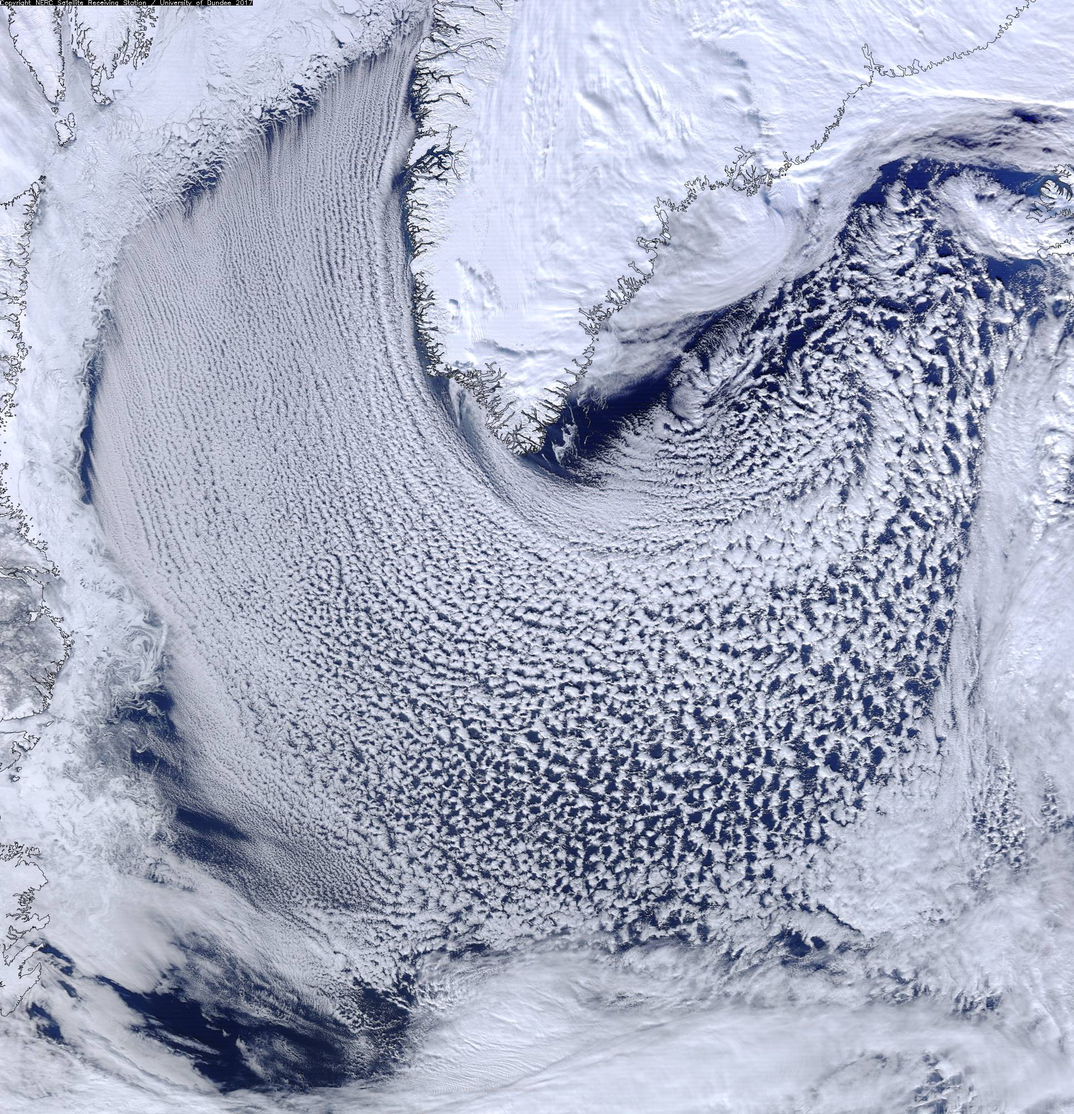
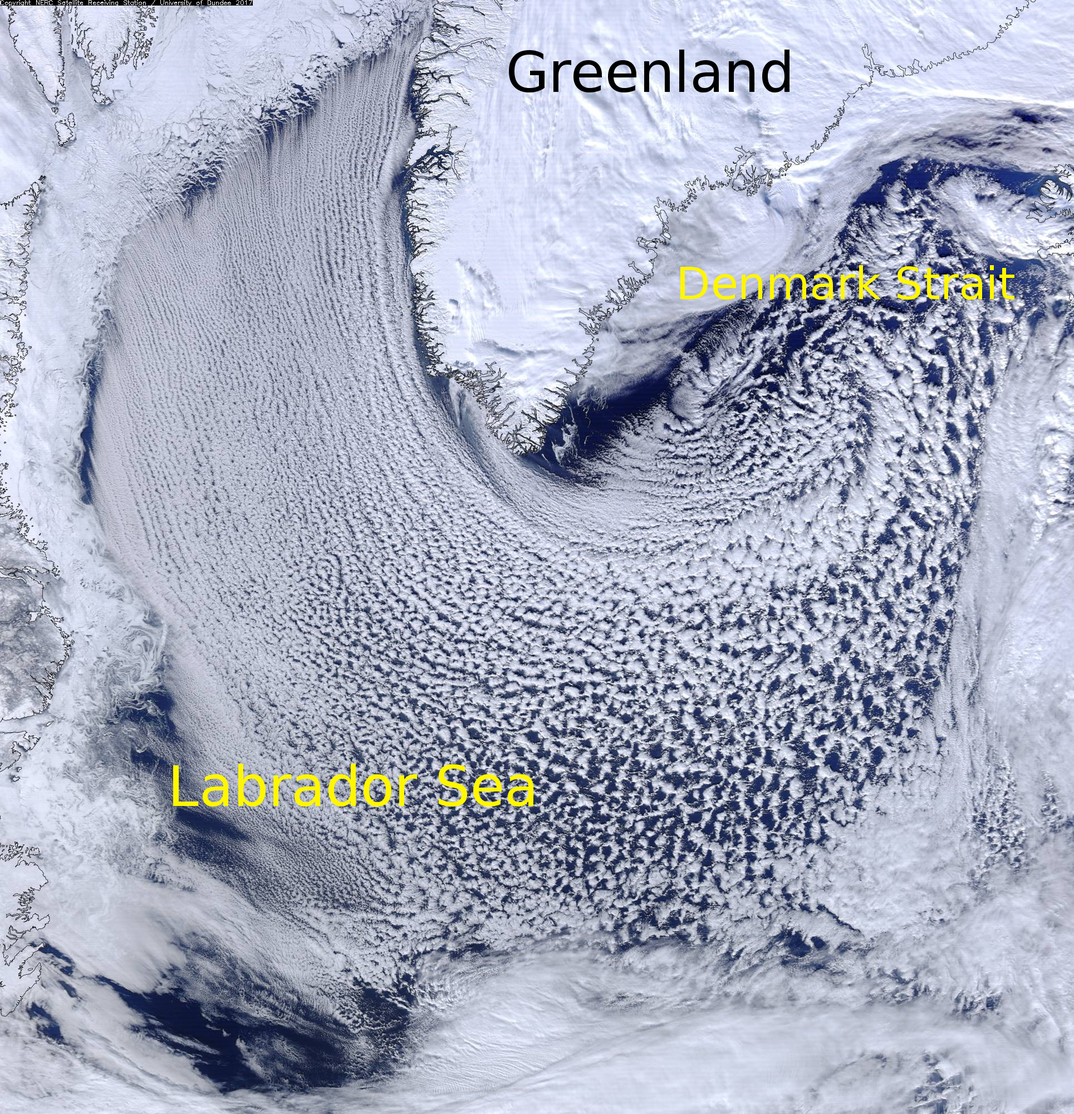
change CAO figure

Changed region(s): [[0.1555, 0.682, 0.4977, 0.744], [0.4666, 0.031, 0.7465, 0.093], [0.6221, 0.248, 0.9642, 0.279]]

diff --git a/index.html b/index.html
@@ -109,6 +109,12 @@ Source: MET.no
 </ul>
 </aside>
 </section>
+<section id="cold-air-outbreaks" class="slide level1">
+<h1>Cold air outbreaks</h1>
+<div class="w90">
+<p><img src="media/cao_dundee.jpg"></p>
+</div>
+</section>
 <section id="the-most-beautiful-polar-low" class="slide level1">
 <h1>&quot;The most beautiful polar low&quot;</h1>
 <div class="w100">
@@ -449,8 +455,10 @@ Questions?
 <p><img src="media/fun/shia.gif"></p>
 </div>
 <p><br></p>
-<!-- bla
-<iframe src="media/scene/scene.html" class="stretched" style="height:500px; width:700px"></iframe>-->
+<!--
+# bla
+<iframe src="media/scene/scene.html" class="stretched" style="height:1500px; width:1900px"></iframe>
+-->
 </section>
     </div>
   </div>

diff --git a/slides.md b/slides.md
@@ -61,6 +61,11 @@ transition: fade
 * Satellite-based climatological studies show that there are typically hundreds od PMCs per year
 </aside>
 
+# Cold air outbreaks
+<div class="w90">
+  <img src="media/cao_dundee.jpg">
+</div>
+
 
 # "The most beautiful polar low"
 <div class="w100">
@@ -315,5 +320,7 @@ Questions?
 </div>
 <br>
 
-<!-- bla
-<iframe src="media/scene/scene.html" class="stretched" style="height:500px; width:700px"></iframe>-->
+<!--
+# bla
+<iframe src="media/scene/scene.html" class="stretched" style="height:1500px; width:1900px"></iframe>
+-->
